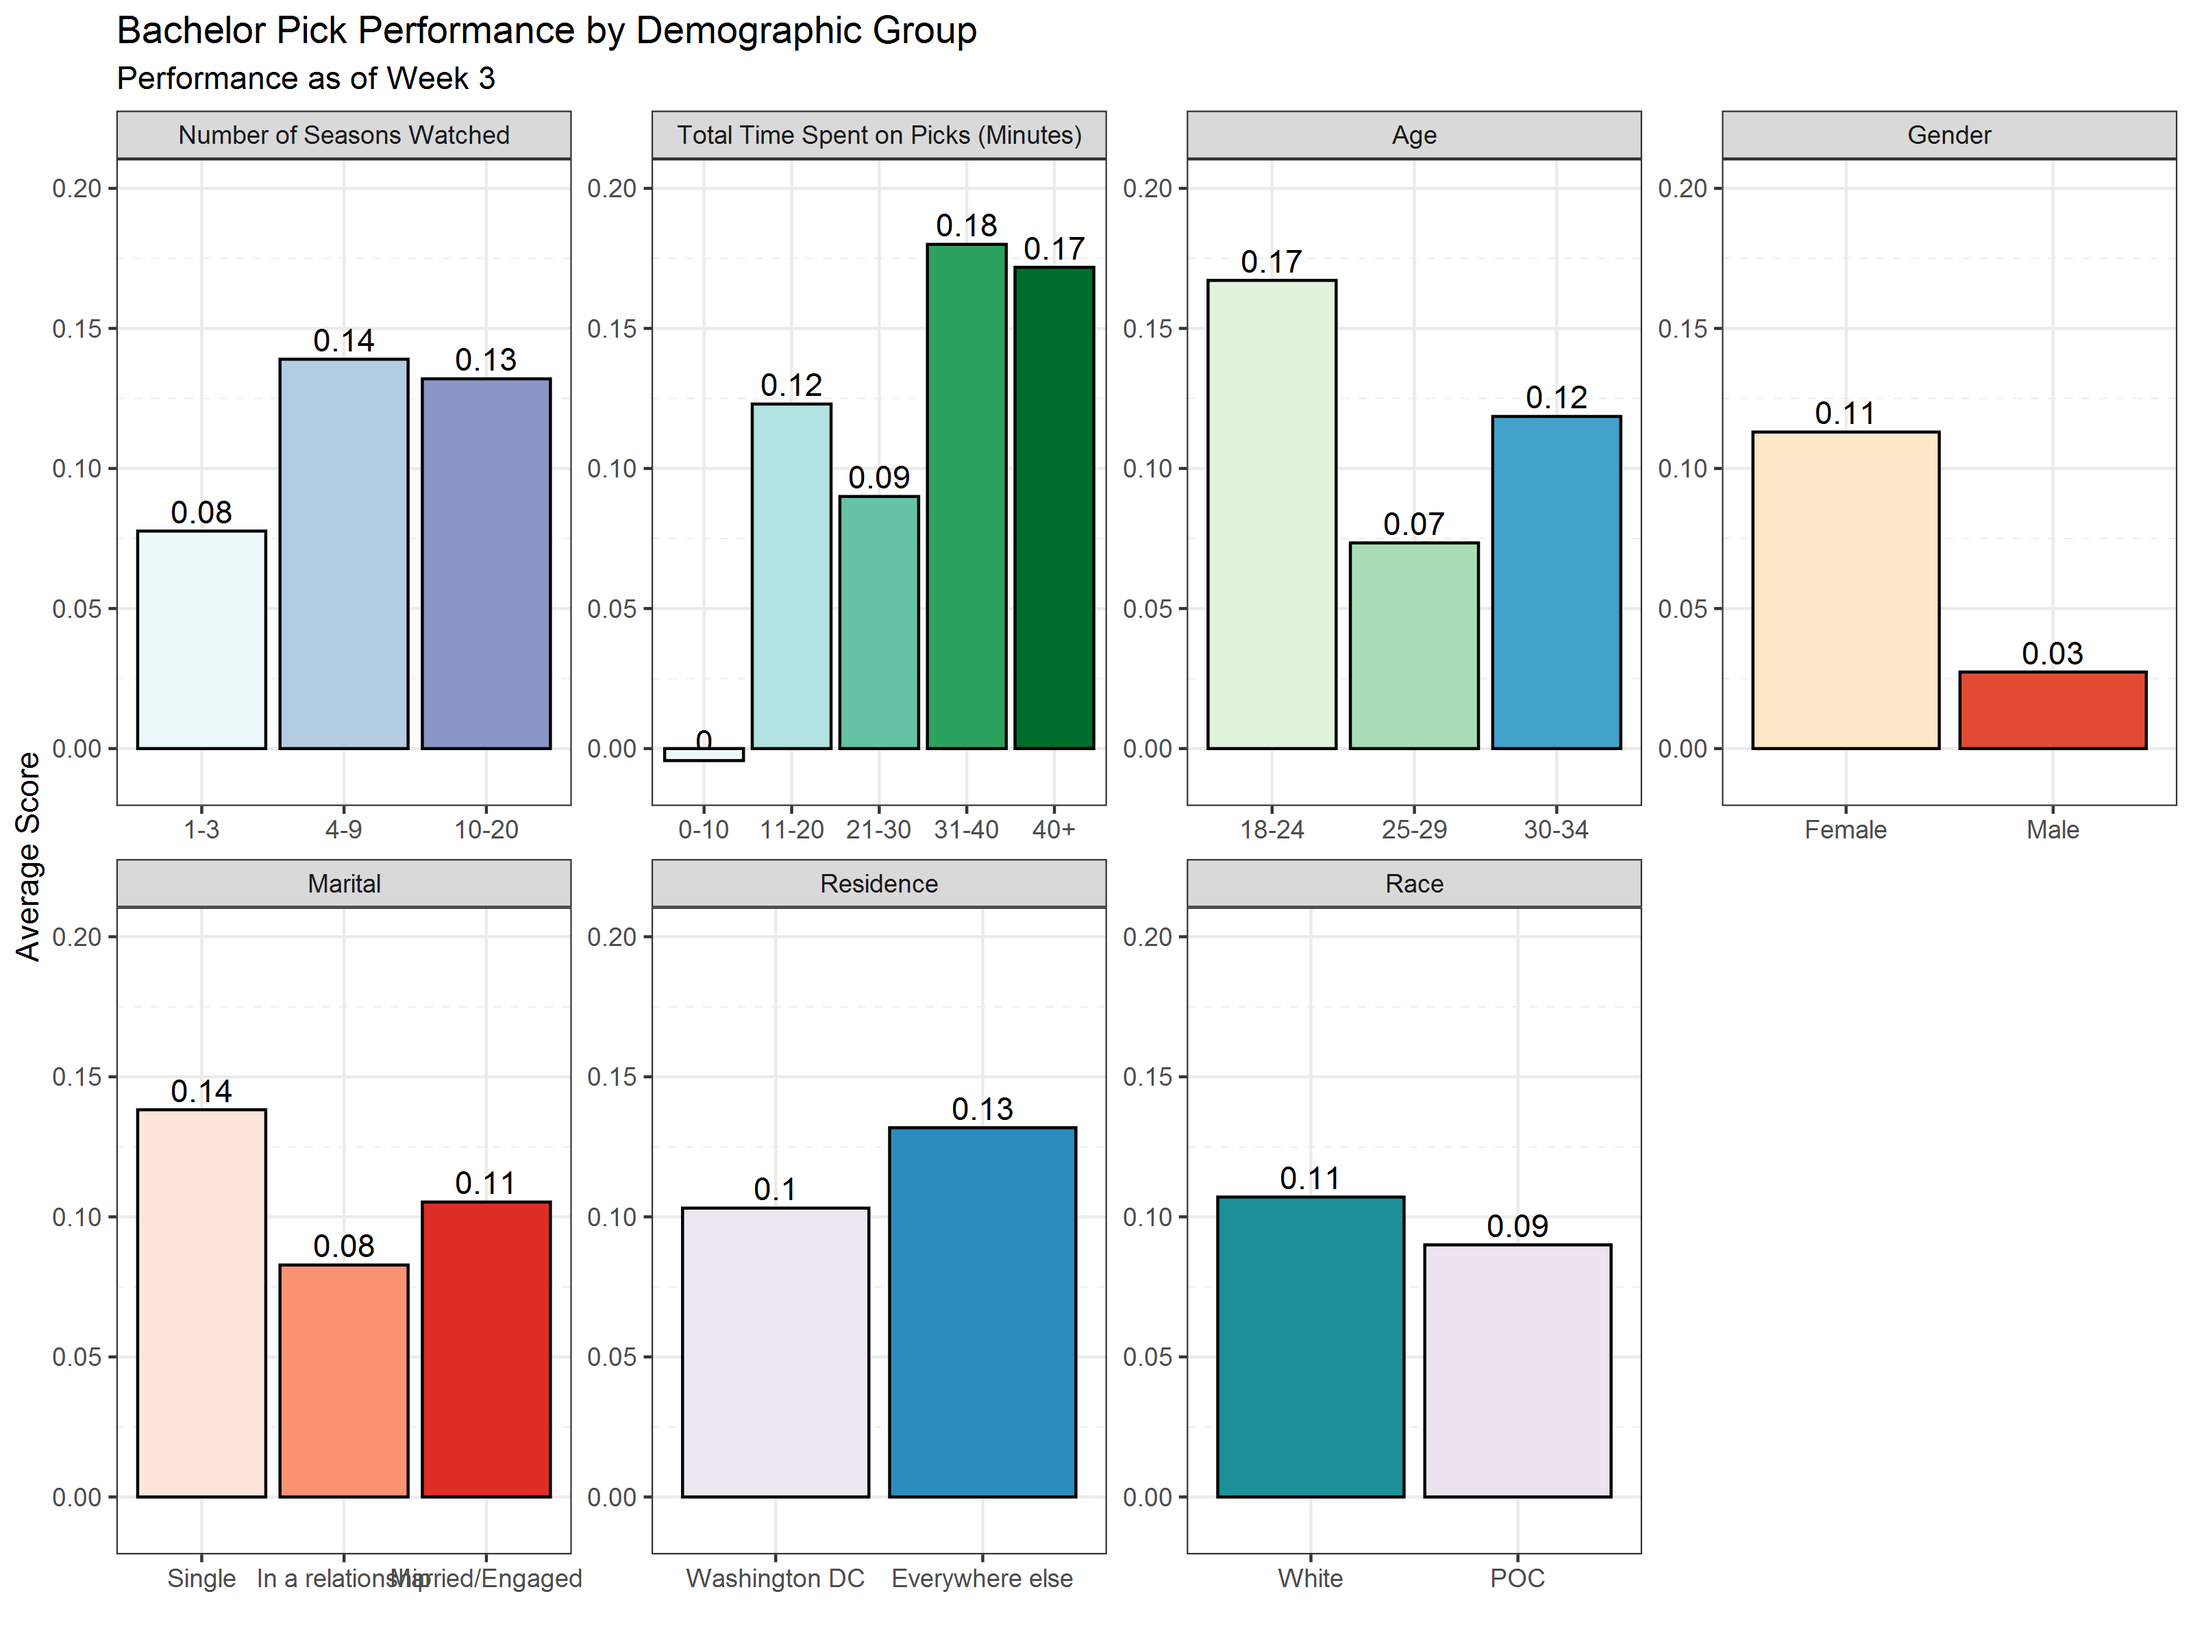
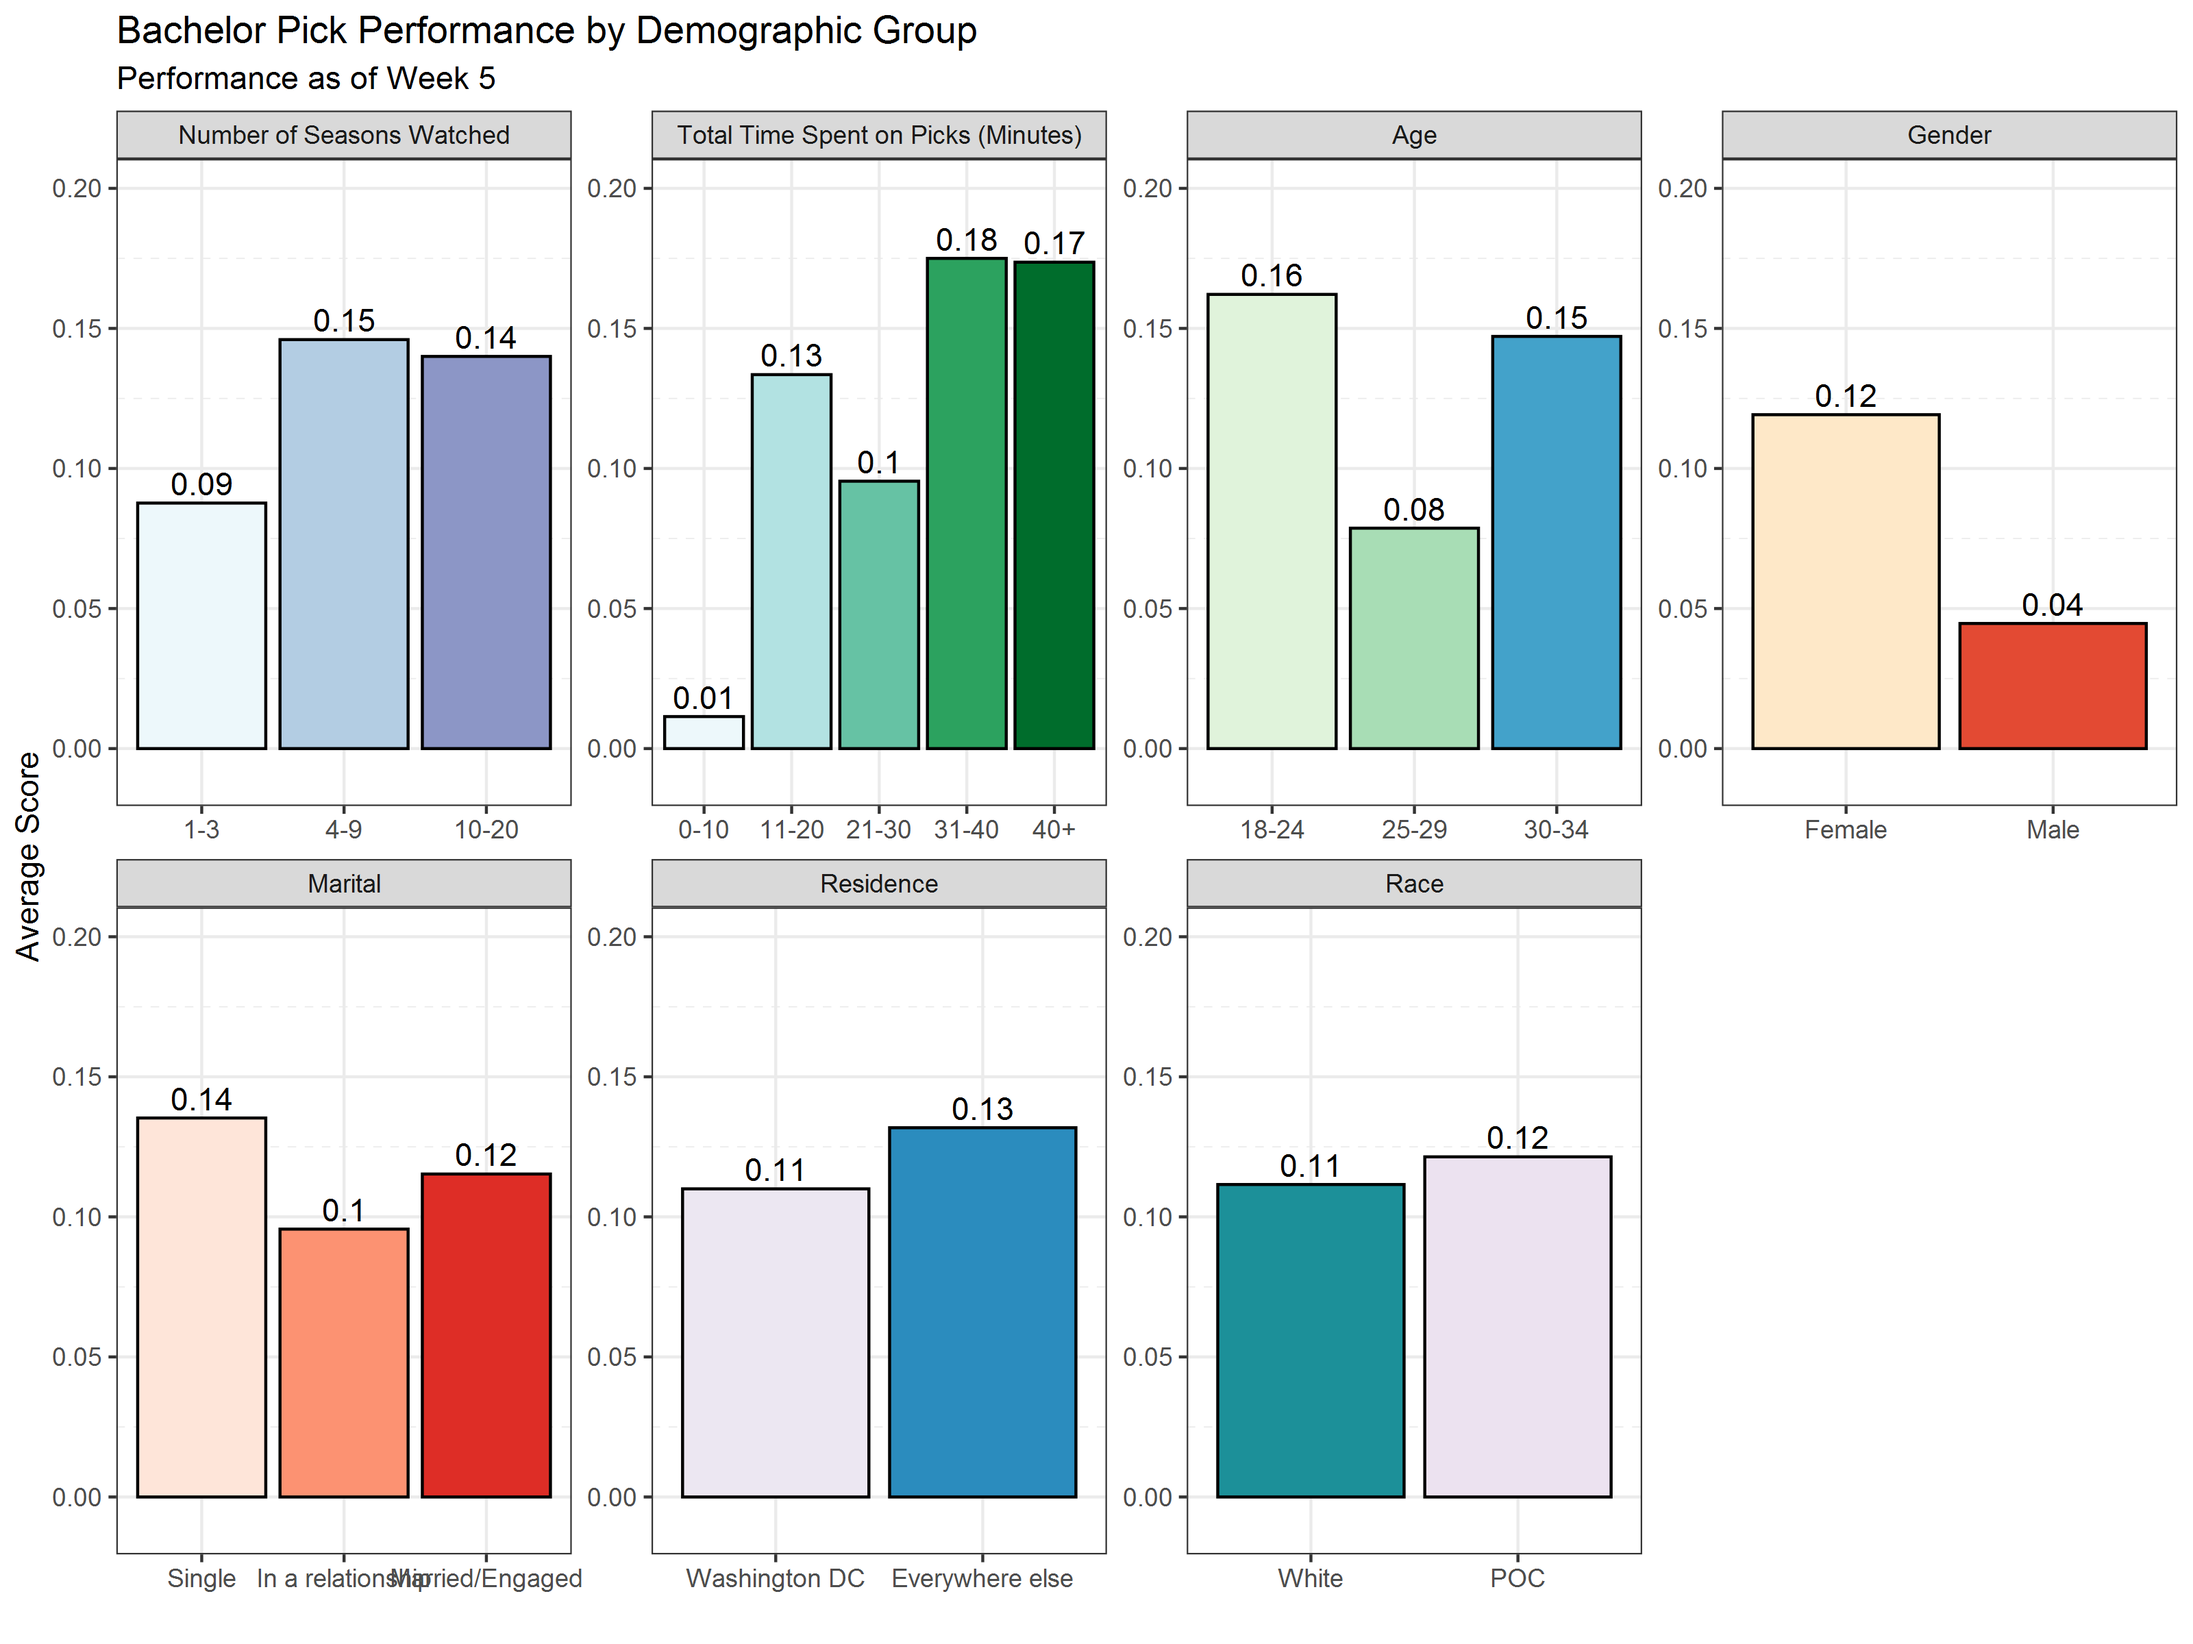
Updating Demo Plot and Date Modified

diff --git a/standings.html b/standings.html
@@ -56,7 +56,7 @@
                     after the drama unfolds.
                 </h3>
                 <h3 class="section-subheading text-muted last-updated">
-                    Data last updated: Tues January 21, 2020
+                    Data last updated: Tues February 4, 2020
                 </h3>
             </div>
         </div>
